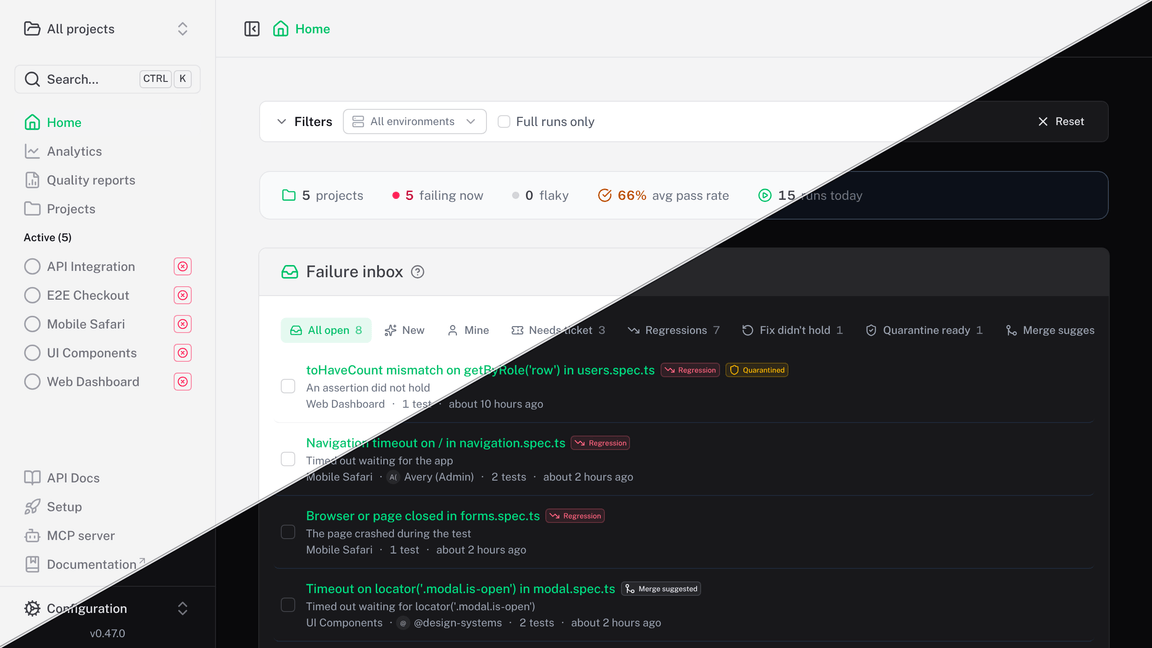
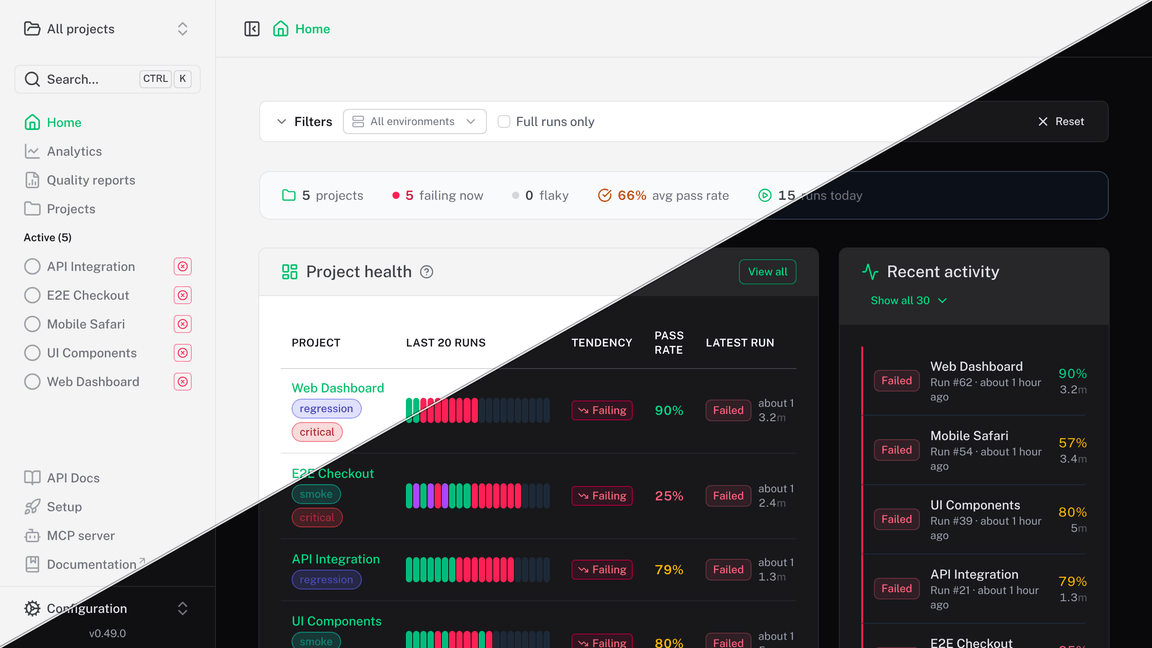
feat(ui): lead home with project health and recent activity
Project health and Recent activity now sit directly under the filters and
the stat strip, ahead of the failure inbox, the gaps queue and the Flake
Lab queue, so the cross-project picture is the first thing Home shows. The
stat strip's "failing now" and "runs today" links land right below it.

The docs hero (home.png) is recaptured to match, and the UI overview lists
the blocks in their new order.

Claude-Session: https://claude.ai/code/session_01ByactUWbzuHuGE8KpazW79

diff --git a/apps/application/app/pages/index.vue b/apps/application/app/pages/index.vue
@@ -386,42 +386,6 @@ function statusBorderClass(status: string): string {
           </button>
         </div>
 
-        <!-- Open failures across the visible projects — one click to a failing cluster -->
-        <OpenFailuresCard
-          v-if="hasProjects"
-          data-shot="open-failures"
-          :clusters="openClusters"
-          @changed="refreshOpenClusters"
-        />
-
-        <!-- Accepted-but-unwritten scenario gaps — the gaps inbox queue -->
-        <SectionCard
-          v-if="!gapsHidden && inboxGaps.length > 0"
-          data-shot="gaps-inbox"
-          icon="i-lucide-radar"
-          title="Accepted gaps not yet written"
-        >
-          <div class="divide-y divide-default text-sm">
-            <NuxtLink
-              v-for="gap in inboxGaps"
-              :key="gap.id"
-              :to="`/projects/${gap.projectId}?tab=gaps&gapStatus=accepted`"
-              class="flex items-center gap-3 py-3 hover:bg-gray-50 dark:hover:bg-gray-800/60 rounded transition-colors"
-            >
-              <UBadge color="neutral" variant="subtle" size="sm">{{ gap.class }}</UBadge>
-              <span class="flex-1 min-w-0 truncate text-highlighted">{{ gap.title }}</span>
-              <span class="text-xs text-muted tabular-nums shrink-0">{{ (gap.score ?? 0).toFixed(3) }}</span>
-            </NuxtLink>
-          </div>
-        </SectionCard>
-
-        <!-- Flaky tests the Flake Lab can move forward: verify a fix, reproduce under an untested suspect -->
-        <FlakeLabInboxCard
-          v-if="!flakeLabHidden && flakeLabInbox.length > 0"
-          data-shot="flake-lab-inbox"
-          :items="flakeLabInbox"
-        />
-
         <!-- Per-project trend table + Recent activity side by side on wide screens -->
         <div v-if="hasProjects || hasActivity" class="grid grid-cols-1 xl:grid-cols-3 gap-6 items-start">
           <div id="project-health" class="xl:col-span-2 space-y-2 scroll-mt-4">
@@ -485,6 +449,42 @@ function statusBorderClass(status: string): string {
             </div>
           </SectionCard>
         </div>
+
+        <!-- Open failures across the visible projects — one click to a failing cluster -->
+        <OpenFailuresCard
+          v-if="hasProjects"
+          data-shot="open-failures"
+          :clusters="openClusters"
+          @changed="refreshOpenClusters"
+        />
+
+        <!-- Accepted-but-unwritten scenario gaps — the gaps inbox queue -->
+        <SectionCard
+          v-if="!gapsHidden && inboxGaps.length > 0"
+          data-shot="gaps-inbox"
+          icon="i-lucide-radar"
+          title="Accepted gaps not yet written"
+        >
+          <div class="divide-y divide-default text-sm">
+            <NuxtLink
+              v-for="gap in inboxGaps"
+              :key="gap.id"
+              :to="`/projects/${gap.projectId}?tab=gaps&gapStatus=accepted`"
+              class="flex items-center gap-3 py-3 hover:bg-gray-50 dark:hover:bg-gray-800/60 rounded transition-colors"
+            >
+              <UBadge color="neutral" variant="subtle" size="sm">{{ gap.class }}</UBadge>
+              <span class="flex-1 min-w-0 truncate text-highlighted">{{ gap.title }}</span>
+              <span class="text-xs text-muted tabular-nums shrink-0">{{ (gap.score ?? 0).toFixed(3) }}</span>
+            </NuxtLink>
+          </div>
+        </SectionCard>
+
+        <!-- Flaky tests the Flake Lab can move forward: verify a fix, reproduce under an untested suspect -->
+        <FlakeLabInboxCard
+          v-if="!flakeLabHidden && flakeLabInbox.length > 0"
+          data-shot="flake-lab-inbox"
+          :items="flakeLabInbox"
+        />
 
         <!-- Empty state when projects exist but all filtered out -->
         <div

diff --git a/apps/docs/features/ui-overview.md b/apps/docs/features/ui-overview.md
@@ -13,9 +13,9 @@ and a **Learn more** link into these docs, and every source path [opens in your 
 
 ## Home
 
-`/`: a health check across all projects. A **Filters** block (environment, full runs only), a **stat strip** whose every number but the average pass rate is a link, the **failure inbox** of open clusters, triaged from the row or the keyboard
-([Failure clusters & the inbox](./failure-clusters#the-failure-inbox)), a **Project health** table with run-history
-bars and a tendency badge, and recent activity.
+`/`: a health check across all projects. A **Filters** block (environment, full runs only), a **stat strip** whose every number but the average pass rate is a link, a **Project health** table with run-history bars and a tendency badge
+beside the recent activity, then the **failure inbox** of open clusters, triaged from the row or the keyboard
+([Failure clusters & the inbox](./failure-clusters#the-failure-inbox)).
 
 ## Analytics
 
